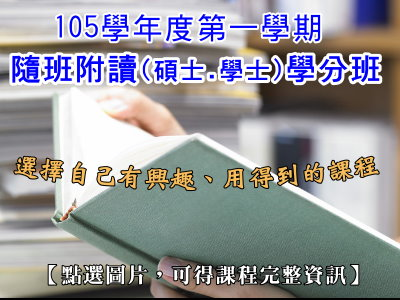
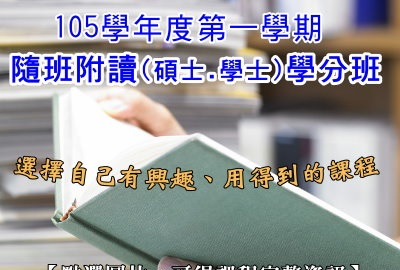
image resize

diff --git a/index.html b/index.html
@@ -7,6 +7,7 @@
 	<link rel="stylesheet" href="css/reset.css">
 	<link rel="stylesheet" href="https://maxcdn.bootstrapcdn.com/bootstrap/3.3.6/css/bootstrap.min.css" integrity="sha384-1q8mTJOASx8j1Au+a5WDVnPi2lkFfwwEAa8hDDdjZlpLegxhjVME1fgjWPGmkzs7" crossorigin="anonymous">
 	<link rel="stylesheet" href="css/style.css">
+<!--	<link rel="stylesheet" href="css/navbar.css">-->
 	<script src="https://ajax.googleapis.com/ajax/libs/jquery/1.12.4/jquery.min.js"></script>
 	<script src="https://maxcdn.bootstrapcdn.com/bootstrap/3.3.6/js/bootstrap.min.js" integrity="sha384-0mSbJDEHialfmuBBQP6A4Qrprq5OVfW37PRR3j5ELqxss1yVqOtnepnHVP9aJ7xS" crossorigin="anonymous"></script>
 	
@@ -23,7 +24,7 @@
 			<div class="jumbotron" >
 			
 				<a href="http://eec.thu.edu.tw" id="logo">
-					<img src="images/logo.png" alt="東海大學推廣部">
+					<img class="img-responsive" src="images/logo.png" alt="東海大學推廣部">
 				</a>			
 			</div>
 		</div>		
@@ -32,7 +33,7 @@
 				
 					<!-- 課程分類 -->
 					<div class="list-group">
-						<li class="list-group-item">課程分類</li>
+						<a href="" class="list-group-item">課程分類</a>
 						<a href="http://eec.thu.edu.tw/classlist.aspx?id=A" class="list-group-item">人文藝術</a>
 						<a href="http://eec.thu.edu.tw/classlist.aspx?id=D" class="list-group-item">創意設計</a>
 						<a href="http://eec.thu.edu.tw/classlist.aspx?id=G" class="list-group-item">政府委訓</a>						
@@ -67,7 +68,7 @@
 								<!--	<a class="navbar-brand" href="#">WebSiteName</a>-->
 								</div>
 								<div class="collapse navbar-collapse" id="myNavbar">
-									<ul class="nav navbar-nav">
+									<ul class="nav navbar-nav nav-justified">
 										<li><a href = "http://eec.thu.edu.tw/classlist.aspx">課程查詢</a></li>
 										<li><a href = "http://eec.thu.edu.tw/reg.aspx">加入會員</a></li>				
 										<li><a href = "http://eec.thu.edu.tw/classopen.aspx">開課通知</a></li>						
@@ -97,19 +98,19 @@
 								<!-- Wrapper for slides -->
 								<div class="carousel-inner" role="listbox">
 									<div class="item active">
-										<img src="images/廣告/廣告01.jpg" alt="">
+										<img class="img-responsive" src="images/滑動廣告/廣告01.jpg" alt="">
 									</div>
 									<div class="item">
-										<img src="images/廣告/廣告02.jpg" alt="">
+										<img class="img-responsive" src="images/滑動廣告/廣告02.jpg" alt="">
 									</div>
 									<div class="item">
-										<img src="images/廣告/廣告03.jpg" alt="">
+										<img class="img-responsive" src="images/滑動廣告/廣告03.jpg" alt="">
 									</div>
 									<div class="item">
-										<img src="images/廣告/廣告04.jpg" alt="">
+										<img class="img-responsive" src="images/滑動廣告/廣告04.jpg" alt="">
 									</div>
 									<div class="item">
-										<img src="images/廣告/廣告05.jpg" alt="">
+										<img class="img-responsive" src="images/滑動廣告/廣告05.jpg" alt="">
 									</div>
 								</div>
 								<!-- Left and right controls -->
@@ -138,19 +139,19 @@
 								<!-- Wrapper for slides -->
 								<div class="carousel-inner" role="listbox">
 									<div class="item active">
-										<img src="images/名師介紹/名師介紹01.jpg" alt="">
+										<img class="img-responsive" src="images/名師介紹/名師介紹01.jpg" alt="">
 									</div>
 									<div class="item">
-										<img src="images/名師介紹/名師介紹02.jpg" alt="">
+										<img class="img-responsive" src="images/名師介紹/名師介紹02.jpg" alt="">
 									</div>
 									<div class="item">
-										<img src="images/名師介紹/名師介紹03.jpg" alt="">
+										<img class="img-responsive" src="images/名師介紹/名師介紹03.jpg" alt="">
 									</div>
 									<div class="item">
-										<img src="images/名師介紹/名師介紹04.jpg" alt="">
+										<img class="img-responsive" src="images/名師介紹/名師介紹04.jpg" alt="">
 									</div>
 									<div class="item">
-										<img src="images/名師介紹/名師介紹05.jpg" alt="">
+										<img class="img-responsive" src="images/名師介紹/名師介紹05.jpg" alt="">
 									</div>
 								</div>
 								<!-- Left and right controls -->
@@ -168,7 +169,7 @@
 					<br>
 							
 					<!-- 9 teacher ad -->
-					<div class ="row">
+					<div class ="row" id="ads">
 						<div class="col-sm-4">
 
 							<div class="row">

diff --git a/css/navbar.css b/css/navbar.css
@@ -1,0 +1,69 @@
+.navbar-default {
+  background-color: #fed52e;
+  border-color: #ffc700;
+}
+.navbar-default .navbar-brand {
+  color: #000000;
+}
+.navbar-default .navbar-brand:hover,
+.navbar-default .navbar-brand:focus {
+  color: #000000;
+}
+.navbar-default .navbar-text {
+  color: #000000;
+}
+.navbar-default .navbar-nav > li > a {
+  color: #000000;
+}
+.navbar-default .navbar-nav > li > a:hover,
+.navbar-default .navbar-nav > li > a:focus {
+  color: #000000;
+}
+.navbar-default .navbar-nav > .active > a,
+.navbar-default .navbar-nav > .active > a:hover,
+.navbar-default .navbar-nav > .active > a:focus {
+  color: #000000;
+  background-color: #ffc700;
+}
+.navbar-default .navbar-nav > .open > a,
+.navbar-default .navbar-nav > .open > a:hover,
+.navbar-default .navbar-nav > .open > a:focus {
+  color: #000000;
+  background-color: #ffc700;
+}
+.navbar-default .navbar-toggle {
+  border-color: #ffc700;
+}
+.navbar-default .navbar-toggle:hover,
+.navbar-default .navbar-toggle:focus {
+  background-color: #ffc700;
+}
+.navbar-default .navbar-toggle .icon-bar {
+  background-color: #000000;
+}
+.navbar-default .navbar-collapse,
+.navbar-default .navbar-form {
+  border-color: #000000;
+}
+.navbar-default .navbar-link {
+  color: #000000;
+}
+.navbar-default .navbar-link:hover {
+  color: #000000;
+}
+
+@media (max-width: 767px) {
+  .navbar-default .navbar-nav .open .dropdown-menu > li > a {
+    color: #000000;
+  }
+  .navbar-default .navbar-nav .open .dropdown-menu > li > a:hover,
+  .navbar-default .navbar-nav .open .dropdown-menu > li > a:focus {
+    color: #000000;
+  }
+  .navbar-default .navbar-nav .open .dropdown-menu > .active > a,
+  .navbar-default .navbar-nav .open .dropdown-menu > .active > a:hover,
+  .navbar-default .navbar-nav .open .dropdown-menu > .active > a:focus {
+    color: #000000;
+    background-color: #ffc700;
+  }
+}

diff --git a/css/style.css b/css/style.css
@@ -3,6 +3,8 @@ body{
 	background-repeat: repeat;
 	display: block;
 	background-color: white;
+	font-family: 微軟正黑體,Arial, Helvetica, sans-serif;
+
 }
 
 .container{
@@ -13,8 +15,9 @@ body{
 
 	background-image:url("../images/title-background.jpg");
 	background-repeat: no-repeat;
-	background-size: cover;
-	
+/*	background-size: cover;*/
+	background-size: 100% 100%;
+
 }
 
 
@@ -22,7 +25,7 @@ body{
 	
 	display: block;
 /*	width: 400px;*/
-	max-height: 70px;
+
 	
 		
 }
@@ -30,6 +33,8 @@ body{
 .list-group-item {
 	margin-bottom: 20px;
 	text-align: center;
+	
+/*	background-color: #E7E7E7;*/
 }
 
 
@@ -39,6 +44,7 @@ body{
   border-radius: 0;
 }
 
+/*
 .img-responsive {
     width: 100%;
 	height: 100%;
@@ -46,7 +52,12 @@ body{
 	padding: 10px;
 	display: block;
 }
+*/
 
+.img-responsive {
+	
+	
+}
 
 
 
@@ -62,7 +73,11 @@ footer {
 }
 
 	
+.navbar-nav.nav-justified > li{
+    float:none;
+}
 
+	
 
 
 
@@ -76,17 +91,23 @@ footer {
 
 
 
-.slide-ad {
-  
-}
-
-#prof-ad-01{
-	height: 400px;
-	
-}
-	
 
 	
+
+
+#ads .row{
+  margin: 0px;
+  padding: 0px;
+
+}
+
+#ads [class^="col-"]{
+	margin: 0px;
+  padding: 0px;
+
+}
+
+
 	
 /**************************************************
 #middle-sec{
@@ -112,6 +133,15 @@ footer {
 }
 
 */
+
+/* IMAGE SIZE TESTING */
+
+
+
+
+
+
+
 	
 	
 	
